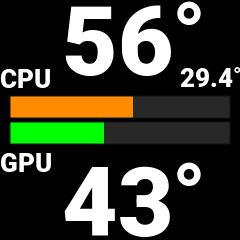
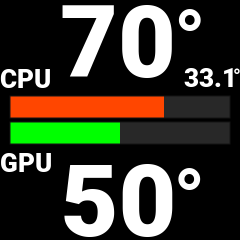
design improvements, mode def are more stable, it run daily on my system without issues

diff --git a/include/config.h b/include/config.h
@@ -29,8 +29,8 @@
 #define BAR_GAP 4 // spacing between bars
 
 // Font Sizes
-#define FONT_SIZE_LARGE 96.0  // BOX_HEIGHT * 1.50
-#define FONT_SIZE_DEGREE 86.0 // FONT_SIZE_LARGE * 0.75
+#define FONT_SIZE_LARGE 100.0  // BOX_HEIGHT * 1.50
+#define FONT_SIZE_DEGREE 80.0 // FONT_SIZE_LARGE * 0.75
 #define FONT_SIZE_COOLANT 26.0 // FONT_SIZE_LARGE * 0.30
 #define FONT_SIZE_LABELS 26.0 // FONT_SIZE_LARGE * 0.25
 
